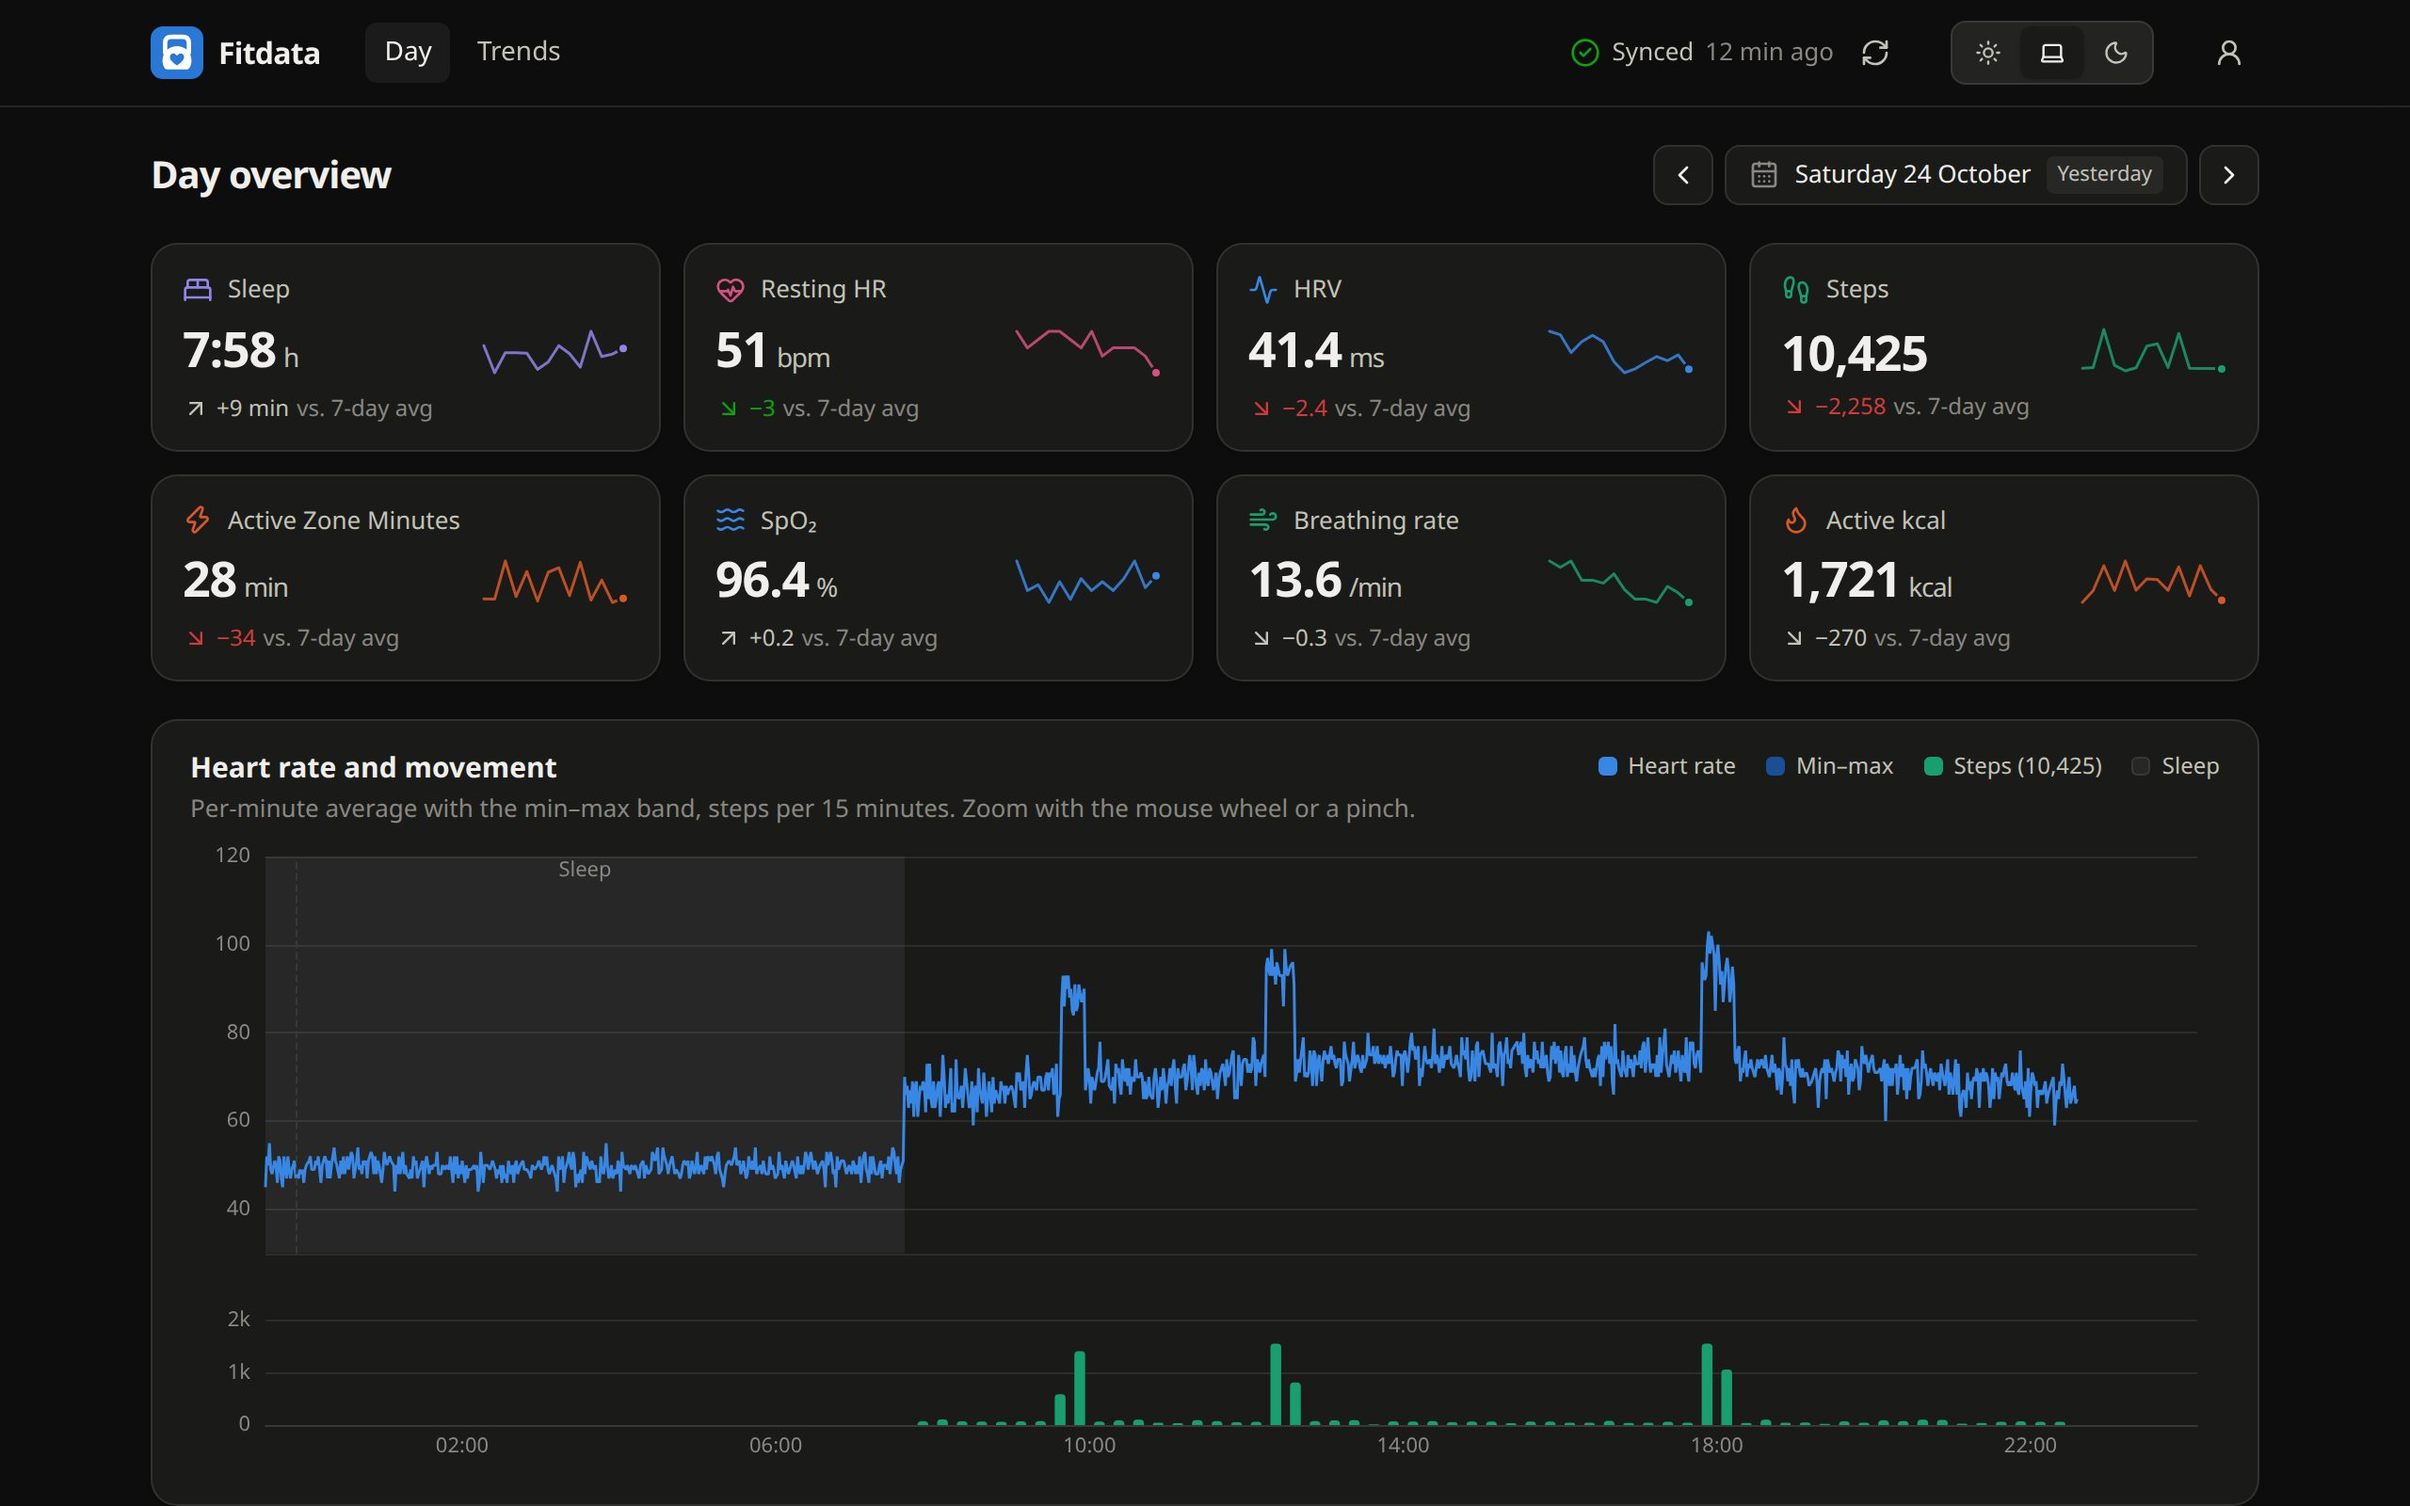
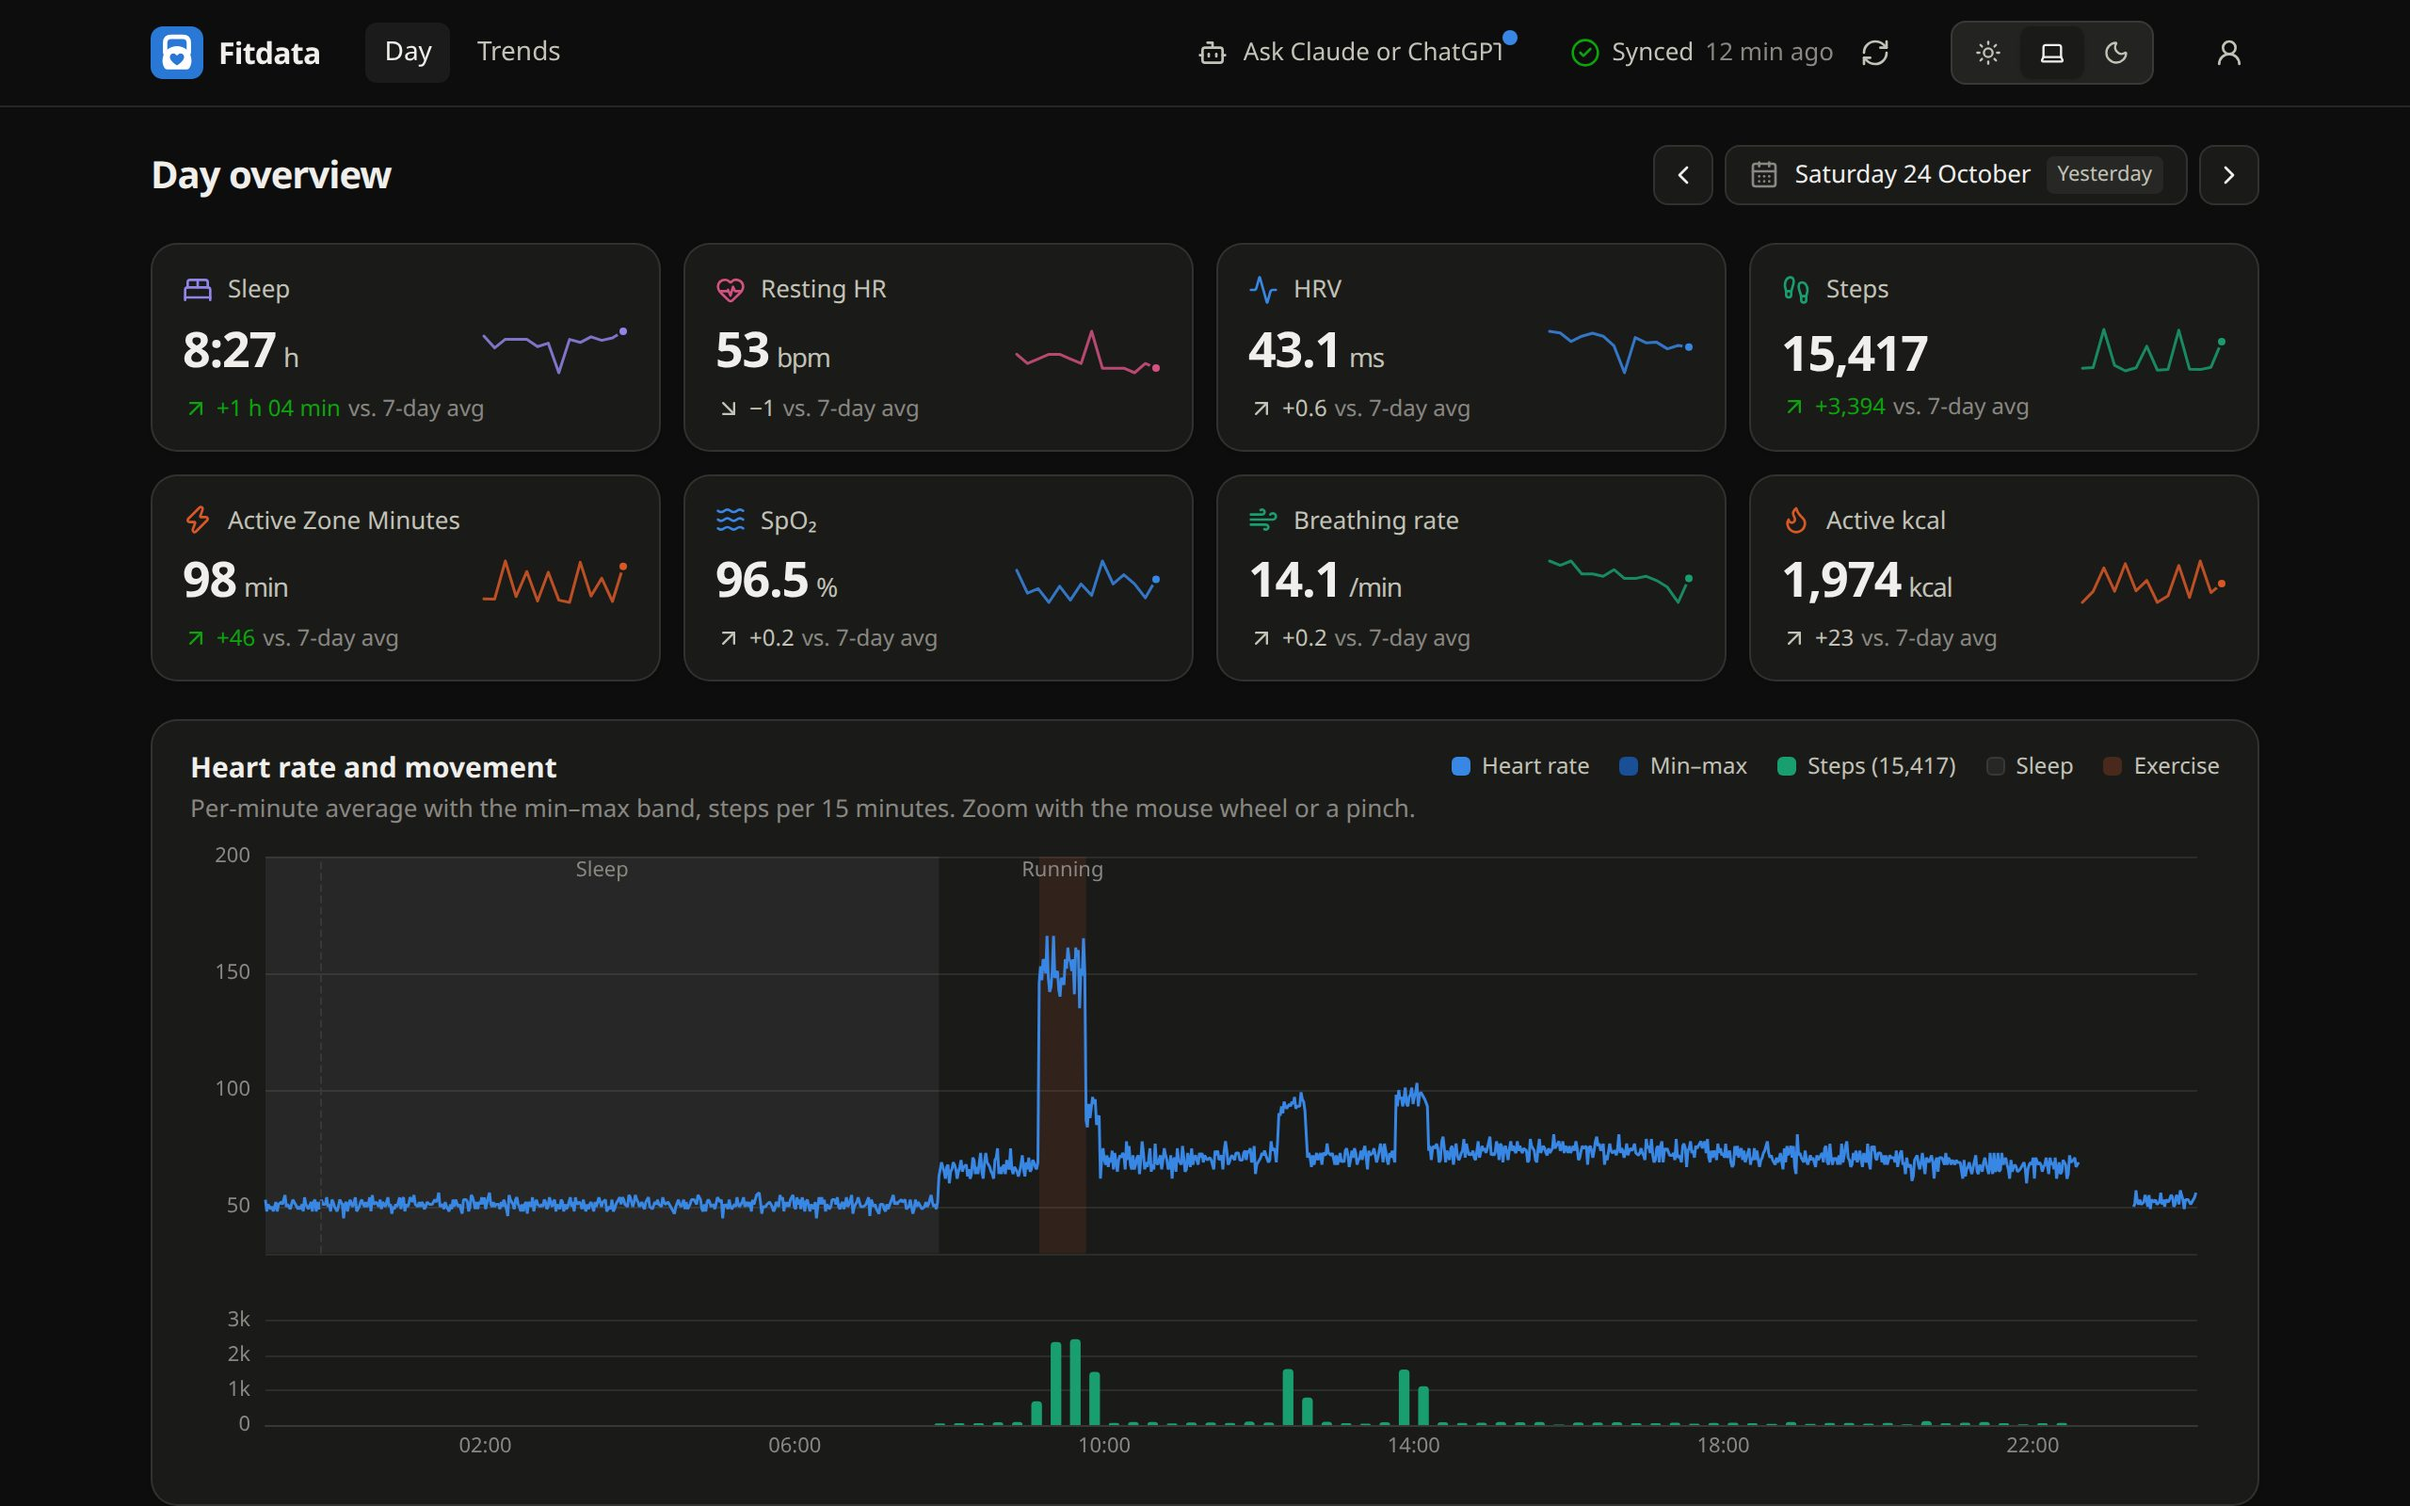
Home page chat: why am I so tired today?
A question about trends since summer was abstract. The chat now answers
something people feel: a short night after a party, read from sleep,
deep sleep, the night's heart rate and HRV. The example questions add
noticing an illness early and whether going to bed earlier helps.

The demo data has that night (17-18 October), so the chat's numbers match
what the dashboard shows for it; the screenshots are retaken with the
dashboard's newer look, metric units and a 24-hour clock.

diff --git a/frontend/home.html b/frontend/home.html
@@ -54,14 +54,15 @@
         <figure class="mx-auto w-full max-w-md lg:max-w-none">
           <div class="space-y-4 rounded-2xl border bg-surface p-5 text-[15px] leading-relaxed shadow-[0_24px_60px_-28px_rgba(11,11,11,0.35)]">
             <p class="ml-auto w-fit max-w-[85%] rounded-2xl rounded-br-md bg-s1 px-4 py-2.5 text-white">
-              How have my resting heart rate and HRV changed since summer?
+              Why am I so tired today?
             </p>
             <p class="inline-flex items-center gap-2 rounded-full border bg-surface-2 px-3 py-1 text-xs text-ink-2">
-              <img src="/favicon.svg" alt="" class="size-4" /> Fitdata · get_daily_metrics
+              <img src="/favicon.svg" alt="" class="size-4" /> Fitdata · get_day
             </p>
             <div class="space-y-2 text-ink">
-              <p>Both are moving the right way. Resting heart rate dropped from about <strong>58 to 54 bpm</strong> since August, and HRV averages <strong>46 ms</strong> this month, up from 43.</p>
-              <p class="text-ink-2">The dip in mid-September, HRV at 33 ms with a higher breathing rate, matches a week without workouts. It looks like you were ill.</p>
+              <p>Last night was rough on your body. You fell asleep at <strong>2:40</strong> and slept 5&nbsp;h&nbsp;8&nbsp;min, with 50&nbsp;min of deep sleep instead of your usual 1&nbsp;h&nbsp;54.</p>
+              <p>Your heart rate stayed around <strong>65 bpm</strong> all night, 12 above normal, and HRV fell to <strong>24 ms</strong> from about 50.</p>
+              <p class="text-ink-2">That's the typical pattern after alcohol or a late night out. One or two good nights usually bring it back.</p>
             </div>
           </div>
           <figcaption class="mt-3 text-center text-xs text-muted">Illustration with demo data</figcaption>
@@ -71,12 +72,12 @@
       <section class="mx-auto max-w-5xl px-4 pb-24 text-center">
         <h2 class="text-sm font-medium text-muted">Ask anything, for example</h2>
         <ul class="mt-5 flex flex-wrap justify-center gap-2.5">
-          <li class="rounded-full border bg-surface px-4 py-2 text-sm text-ink-2">Why did I sleep worse this week?</li>
+          <li class="rounded-full border bg-surface px-4 py-2 text-sm text-ink-2">I feel off. Am I getting sick?</li>
+          <li class="rounded-full border bg-surface px-4 py-2 text-sm text-ink-2">Do I sleep better when I go to bed earlier?</li>
           <li class="rounded-full border bg-surface px-4 py-2 text-sm text-ink-2">Do evening runs change my deep sleep?</li>
-          <li class="rounded-full border bg-surface px-4 py-2 text-sm text-ink-2">Is my resting heart rate going down?</li>
           <li class="rounded-full border bg-surface px-4 py-2 text-sm text-ink-2">Compare my HRV on workout and rest days</li>
+          <li class="rounded-full border bg-surface px-4 py-2 text-sm text-ink-2">Is my resting heart rate going down?</li>
           <li class="rounded-full border bg-surface px-4 py-2 text-sm text-ink-2">How much do I sleep on weekends?</li>
-          <li class="rounded-full border bg-surface px-4 py-2 text-sm text-ink-2">What changed when I was ill in September?</li>
         </ul>
       </section>
 

diff --git a/scripts/demo_data.py b/scripts/demo_data.py
@@ -3,9 +3,12 @@
 the screenshots on the home page (frontend/src/home/), so no real data is shown.
 
     python3 scripts/demo_data.py /tmp/demo 4815162342108
-    # users/4815162342108.json with a dummy token, then:
+    # users/4815162342108.json with a dummy token, time_zone "Europe/Prague" and
+    # prefs {"units": "metric", "weekStart": "monday", "clock": "24h"}, then:
     cargo run -- --storage /tmp/demo load --user 4815162342108 --from 2026-07-28
     cargo run -- --storage /tmp/demo serve --dev-user 4815162342108
+
+Take the screenshots with the browser locale en-GB and time zone Europe/Prague.
 """
 import json, math, os, random, sys
 from datetime import date, datetime, timedelta, timezone
@@ -18,6 +21,9 @@ raw = os.path.join(root, "u", uid, "raw")
 END = date(2026, 10, 25)
 DAYS = 90
 NOW = datetime(2026, 10, 25, 16, 40, tzinfo=TZ)
+# A late night out (the home page's chat is about it): short sleep, little
+# deep sleep, a high heart rate and a low HRV through the night.
+PARTY = date(2026, 10, 18)
 
 files = {}
 def put(dtype, key, point):
@@ -43,16 +49,22 @@ for i in range(DAYS):
     rough = 40 <= i <= 46
     rhr = trend(i, 57 - i * 0.03 + (3 if rough else 0), 1.2, 0.8)
     hrv = trend(i, 44 + i * 0.06 - (8 if rough else 0), 4, 3)
+    party = d == PARTY
+    night_hr = rhr + (9 if party else -2)
+    if party:
+        hrv, rhr = 24.0, rhr + 5
 
     # The night that ends this morning.
     bed = local(d - timedelta(days=1), 22, random.randint(30, 80) + (40 if weekend else 0))
     wake = local(d, 6, random.randint(20, 70) + (60 if weekend else 0))
+    if party:
+        bed, wake = local(d, 2, 40), local(d, 7, 50)
     if NOW < wake:
         continue
     t, stages, mins = bed, [], {"LIGHT": 0, "DEEP": 0, "REM": 0, "AWAKE": 0}
     cycle = 0
     while t < wake:
-        for kind, length in (("LIGHT", random.randint(20, 35)), ("DEEP", max(5, random.randint(35, 55) - cycle * 12)),
+        for kind, length in (("LIGHT", random.randint(20, 35)), ("DEEP", random.randint(11, 14) if party else max(5, random.randint(35, 55) - cycle * 12)),
                              ("LIGHT", random.randint(10, 25)), ("REM", random.randint(10, 18) + cycle * 6),
                              ("AWAKE", random.choice([0, 0, 2, 4]))):
             if length == 0 or t >= wake:
@@ -70,7 +82,7 @@ for i in range(DAYS):
     # Night vitals.
     t = bed
     while t < wake:
-        put("heart-rate", (t.date().isoformat()), {"heartRate": {"beatsPerMinute": str(round(rhr + random.gauss(-2, 2))), "sampleTime": sample(t)}})
+        put("heart-rate", (t.date().isoformat()), {"heartRate": {"beatsPerMinute": str(round(night_hr + random.gauss(0, 2))), "sampleTime": sample(t)}})
         if (t - bed).seconds % 300 == 0:
             put("heart-rate-variability", t.date().isoformat(), {"heartRateVariability": {"rootMeanSquareOfSuccessiveDifferencesMilliseconds": round(max(15, hrv + random.gauss(0, 7)), 1), "sampleTime": sample(t)}})
         put("oxygen-saturation", t.date().isoformat(), {"oxygenSaturation": {"percentage": round(min(99.5, random.gauss(96.3, 0.9)), 1), "sampleTime": sample(t)}})
@@ -78,7 +90,7 @@ for i in range(DAYS):
 
     put("daily-resting-heart-rate", mkey, {"dailyRestingHeartRate": {"date": ymd(d), "beatsPerMinute": str(round(rhr))}})
     put("daily-heart-rate-variability", mkey, {"dailyHeartRateVariability": {"date": ymd(d), "averageHeartRateVariabilityMilliseconds": round(hrv, 1),
-        "deepSleepRootMeanSquareOfSuccessiveDifferencesMilliseconds": round(hrv * 1.15, 1), "nonRemHeartRateBeatsPerMinute": round(rhr - 2, 1)}})
+        "deepSleepRootMeanSquareOfSuccessiveDifferencesMilliseconds": round(hrv * 1.15, 1), "nonRemHeartRateBeatsPerMinute": round(night_hr, 1)}})
     put("daily-oxygen-saturation", mkey, {"dailyOxygenSaturation": {"date": ymd(d), "averagePercentage": round(random.gauss(96.2, 0.4), 1),
         "lowerBoundPercentage": round(random.gauss(93.5, 0.6), 1), "upperBoundPercentage": round(random.gauss(98.4, 0.3), 1)}})
     put("daily-respiratory-rate", mkey, {"dailyRespiratoryRate": {"date": ymd(d), "breathsPerMinute": round(trend(i, 14.2, 0.4, 0.3) + (0.8 if rough else 0), 1)}})
